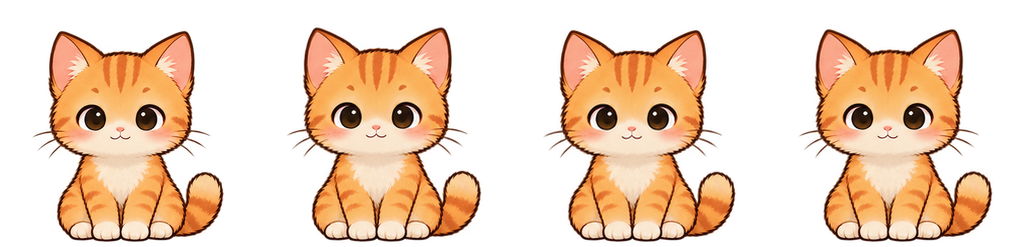
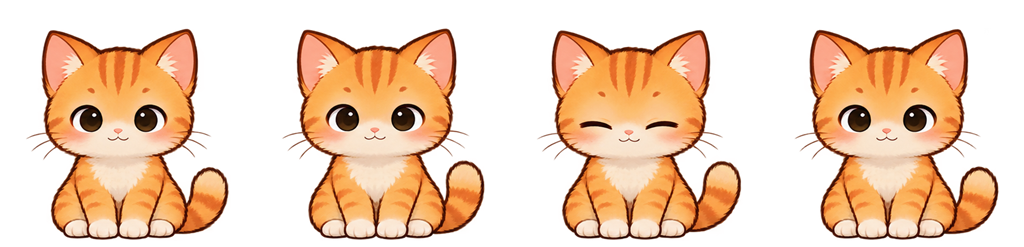
v0.8.3: redraw Amber idle and input-driven work animation

diff --git a/tests/ReliabilityProbe/AmberAnimationChecks.cs b/tests/ReliabilityProbe/AmberAnimationChecks.cs
@@ -1,0 +1,81 @@
+using System.IO;
+using System.Reflection;
+using System.Text.Json.Nodes;
+using DesktopPet.App.Core;
+using DesktopPet.App.Renderer;
+using DesktopPet.Core;
+
+internal static partial class Program
+{
+    private static void RunAmberAnimationChecks(string root)
+    {
+        Check("uneven frame timing gives a short blink, preserves seeking and catches up after suspend", () =>
+        {
+            var state = SpriteAtlas.LoadSkin(Paths.Assets, "amber").States["idle"];
+            Require(state.FrameDurations.Count == 4, "idle timing was lost in atlas loading");
+            var animator = new FrameAnimator(); animator.SetState(state);
+            animator.Tick(TimeSpan.FromSeconds(1.79)); Require(animator.FrameIndex == 0, "neutral hold ended early");
+            animator.Tick(TimeSpan.FromSeconds(1.22)); Require(animator.FrameIndex == 2, "blink frame not reached");
+            animator.Tick(TimeSpan.FromSeconds(.14)); Require(animator.FrameIndex == 3, "blink held too long");
+            animator.SeekFrame(2); animator.Tick(TimeSpan.FromSeconds(.13));
+            Require(animator.FrameIndex == 2, "seek retained old elapsed time");
+            animator.Tick(TimeSpan.FromSeconds(.02)); Require(animator.FrameIndex == 3, "seek did not resume timing");
+            animator.SeekFrame(0); animator.Playback = 2;
+            animator.Tick(TimeSpan.FromSeconds(.91)); Require(animator.FrameIndex == 1, "playback multiplier ignored");
+            animator.Playback = 1; animator.SeekFrame(0);
+            animator.Tick(TimeSpan.FromSeconds(454000003.01));
+            Require(animator.FrameIndex == 2, "suspend catch-up corrupted uneven timing");
+            animator.Loop = false; animator.SeekFrame(0);
+            animator.Tick(TimeSpan.FromSeconds(100));
+            Require(animator.IsComplete && animator.FrameIndex == 3, "one-shot uneven animation did not finish");
+            var pixel = SpriteAtlas.LoadSkin(Paths.Assets, "pixel");
+            var walk = pixel.States["walk"];
+            Field<Dictionary<string, SpriteState>>(pixel, "_states")["walk"] = new SpriteState
+            { Name = "walk", Fps = 8, Frames = walk.Frames, FrameDurations = new double[] { 1, 1, 1, 1 } };
+            Require(Math.Abs(new PetRenderer(pixel) { Scale = 4 }.WalkSpeed - 10) < .001, "stride ignored uneven cycle duration");
+        });
+        Check("work paws follow input, rest with embedded blinking and never override a drag", () =>
+        {
+            var renderer = new PetRenderer(SpriteAtlas.LoadSkin(Paths.Assets, "amber"));
+            var animator = Field<FrameAnimator>(renderer, "_animator");
+            renderer.Play(PetState.Work);
+            Require(animator.FrameIndex == 1, "work started with a raised paw without input");
+            renderer.Tick(TimeSpan.FromSeconds(1)); Require(animator.FrameIndex == 1, "resting cat kept typing");
+            var neutral = Pixels(RenderAnimationFrame(renderer));
+            renderer.SetTypingActive(TimeSpan.FromSeconds(.6));
+            renderer.Tick(TimeSpan.FromSeconds(.3)); Require(animator.FrameIndex == 3, "typing did not animate paws");
+            typeof(PetRenderer).GetField("_breathOffset", BindingFlags.Instance | BindingFlags.NonPublic)!.SetValue(renderer, 0d);
+            Require(neutral.SequenceEqual(Pixels(RenderAnimationFrame(renderer))), "fast typing repeated the embedded blink every cycle");
+            renderer.Tick(TimeSpan.FromSeconds(.4)); Require(animator.FrameIndex == 1, "paws did not return to keyboard");
+            typeof(PetRenderer).GetField("_nextBlinkAtMs", BindingFlags.Instance | BindingFlags.NonPublic)!.SetValue(renderer, 0d);
+            renderer.Tick(TimeSpan.FromMilliseconds(1)); Require(animator.FrameIndex == 3, "embedded rest blink missing");
+            renderer.Tick(TimeSpan.FromMilliseconds(150)); Require(animator.FrameIndex == 1, "rest blink stuck");
+            renderer.Play(PetState.Drag); renderer.Tick(TimeSpan.FromSeconds(.4));
+            Require(animator.State!.Name == "drag" && animator.FrameIndex != 1, "work rest logic intercepted drag");
+            renderer.SetAtlas(SpriteAtlas.LoadSkin(Paths.Assets, "pixel")); renderer.Play(PetState.Work);
+            renderer.Tick(TimeSpan.FromSeconds(.5)); Require(animator.FrameIndex == 1, "legacy work loop changed");
+        });
+        Check("invalid frame timing and input-frame declarations are rejected", () =>
+        {
+            var directory = Path.Combine(root, "timing-fixtures", "timing"); Directory.CreateDirectory(directory);
+            var source = JsonNode.Parse(File.ReadAllText(Path.Combine(Paths.Assets, "amber", "skin.json")))!.AsObject();
+            source["id"] = "timing";
+            var path = Path.Combine(directory, "skin.json");
+            void Reject(Action<JsonObject> mutate)
+            {
+                var invalid = source.DeepClone().AsObject(); mutate(invalid); File.WriteAllText(path, invalid.ToJsonString());
+                Require(SkinRegistry.Scan(Path.GetDirectoryName(directory)!).Single().IsBuiltinFallback, "invalid timing manifest accepted");
+            }
+            Reject(m => m["states"]![0]!["frameDurations"] = new JsonArray(1, 1, 0, 1));
+            Reject(m => m["states"]![0]!["frameDurations"] = new JsonArray(1, 1));
+            Reject(m => m["states"]![0]!["frameDurations"] = new JsonArray(1, 1, "fast", 1));
+            Reject(m => m["states"]![0]!["frameDurations"] = new JsonArray(1, 1, 61, 1));
+            Reject(m => m["states"]![8]!["typingRestFrame"] = 4);
+            Reject(m => m["states"]![8]!["typingRestFrame"] = .5);
+            Reject(m => m["states"]![8]!.AsObject().Remove("typingRestFrame"));
+            Reject(m => m["states"]![0]!["typingRestFrame"] = 0);
+            File.WriteAllText(path, source.ToJsonString());
+            Require(SkinRegistry.InspectFolder(directory).States[8].BlinkFrame == 3, "valid embedded blink rejected");
+        });
+    }
+}

diff --git a/src/DesktopPet.App/Renderer/PetRenderer.cs b/src/DesktopPet.App/Renderer/PetRenderer.cs
@@ -22,7 +22,8 @@ public sealed class PetRenderer
     private double _typingWeight;
     public bool IsTransitioning => _transitionTarget is not null;
     public double WalkSpeed => _atlas.Motion?.WalkStride is double stride && _atlas.States.TryGetValue("walk", out var walk)
-        ? stride * Scale * walk.Fps / Math.Max(1, walk.Frames.Length) * _moodIntensity
+        ? stride * Scale * (walk.Fps <= 0 ? 0 : walk.FrameDurations.Count == walk.Frames.Length
+            ? 1 / walk.FrameDurations.Sum() : walk.Fps / Math.Max(1, walk.Frames.Length)) * _moodIntensity
         : Behavior.PetStateMachine.WalkSpeed;
 
     // 眼球偏移（眼神追踪）
@@ -124,6 +125,8 @@ public sealed class PetRenderer
         var restart = !loop || _animator.IsComplete || _animator.Loop != loop;
         _animator.Loop = loop;
         _animator.SetState(target, restart);
+        if (loop && target?.TypingRestFrame is int rest && _clockMs >= _typingUntilMs)
+            _animator.SeekFrame(rest);
         RenderInvalidated?.Invoke();
     }
 
@@ -171,7 +174,9 @@ public sealed class PetRenderer
         // v0.1.58(任务5)：单调时钟先行累加真实 elapsed（眨眼/闪眼/打字全部锚定它）
         _clockMs += delta.TotalMilliseconds;
 
-        _animator.Playback = _moodIntensity;
+        bool typing = _clockMs < _typingUntilMs;
+        var inputDriven = _animator.Loop && _animator.State?.TypingRestFrame is not null;
+        _animator.Playback = inputDriven && !typing ? 0 : _moodIntensity;
         var changed = _animator.Tick(delta);
         if (_transitionTarget is { } destination && _animator.IsComplete)
         {
@@ -187,7 +192,6 @@ public sealed class PetRenderer
         }
 
         // v0.1.47：打字活跃检测 → 眨眼更频繁 + 身体呼吸晃动（看键盘效果在 Draw 里）
-        bool typing = _clockMs < _typingUntilMs;
         double blinkMax = typing ? 1.6 : 6.0;   // 眨眼间隔上限：打字 1.6s / 闲置 6s（间隔分布见 ScheduleNextBlink）
         var previousBreath = _breathOffset;
         var motion = _atlas.Motion;
@@ -248,6 +252,13 @@ public sealed class PetRenderer
                 break;
         }
 
+        // Embedded-eye work sheets can rest and blink without pretending to type forever.
+        if (_animator.Loop && !typing && _animator.State is { TypingRestFrame: int resting } work)
+        {
+            var frame = _blinkPhase != BlinkPhase.Open && work.BlinkFrame is int blink ? blink : resting;
+            if (_animator.FrameIndex != frame) { _animator.SeekFrame(frame); changed = true; }
+        }
+
         // 气泡计时
         if (_speechTimer > 0)
         {
@@ -287,7 +298,11 @@ public sealed class PetRenderer
         };
         if (mirror) dc.PushTransform(new MatrixTransform(-1, 0, 0, 1, SpriteAtlas.FrameW * Scale, 0));
 
-        var frame = state.Frames[_animator.FrameIndex];
+        // A dedicated embedded blink must not repeat once per fast typing cycle.
+        // Keep its time slot as a neutral paw-down beat; use the actual blink only at rest.
+        var frameIndex = _animator.Loop && _clockMs < _typingUntilMs && state.BlinkFrame == _animator.FrameIndex
+            && state.TypingRestFrame is int resting ? resting : _animator.FrameIndex;
+        var frame = state.Frames[frameIndex];
         // v0.1.47：身体 Y 偏移（打字时呼吸/晃动感）
         var target = new Rect(0, _breathOffset, SpriteAtlas.FrameW * Scale, SpriteAtlas.FrameH * Scale);
 
@@ -330,7 +345,7 @@ public sealed class PetRenderer
             {
                 // Anchor motion follows the head, while gaze remains relative to that anchor.
                 // Apply the transform to the layer, clipping and socket mask together.
-                var anchor = state.EyeOffsets.Count > _animator.FrameIndex ? state.EyeOffsets[_animator.FrameIndex] : default;
+                var anchor = state.EyeOffsets.Count > frameIndex ? state.EyeOffsets[frameIndex] : default;
                 dc.PushTransform(new TranslateTransform(anchor.X * SpriteAtlas.FrameW * Scale / eye.PixelWidth,
                     _breathOffset + anchor.Y * SpriteAtlas.FrameH * Scale / eye.PixelHeight));
                 // 眼神偏移：眼球层整体平移；v0.1.47 打字时眼球下移（看键盘）

diff --git a/src/DesktopPet.App/Core/SkinRegistry.cs b/src/DesktopPet.App/Core/SkinRegistry.cs
@@ -24,6 +24,12 @@ public sealed class SkinState
     /// <summary>该状态的播放帧率（帧/秒）。</summary>
     public required double Fps { get; init; }
 
+    /// <summary>可选逐帧停留秒数；fps=0 仍保持静止。</summary>
+    public IReadOnlyList<double> FrameDurations { get; init; } = Array.Empty<double>();
+    /// <summary>工作动作无键盘输入时停留的帧；缺省持续循环。</summary>
+    public int? TypingRestFrame { get; init; }
+    public int? BlinkFrame { get; init; }
+
     /// <summary>叠加的眼球层 key（<c>neko_&lt;eyeLayer&gt;.png</c>）；null 表示不叠加（如 sleep，或眼睛已画在身体里）。</summary>
     public string? EyeLayer { get; init; }
 
@@ -302,6 +308,30 @@ public static class SkinRegistry
                     // 引擎侧是支持静止的：FrameAnimator.Tick 里 `if (fps <= 0) return false;`（帧永不推进）。
                     // 这里只拦真正非法的值：负数 / NaN（缺字段时 GetDouble 回落成 0 → 视为静止，偏宽容但有意义）。
                     if (fps < 0 || !double.IsFinite(fps)) throw new FormatException($"状态 '{name}' 的 fps 必须为有限非负数");
+                    var durations = new List<double>();
+                    if (s.TryGetProperty("frameDurations", out var timings))
+                    {
+                        if (timings.ValueKind != JsonValueKind.Array || timings.GetArrayLength() != frames)
+                            throw new FormatException($"状态 '{name}' 的 frameDurations 必须与 frames 数量一致");
+                        foreach (var timing in timings.EnumerateArray())
+                        {
+                            if (timing.ValueKind != JsonValueKind.Number || !timing.TryGetDouble(out var seconds) ||
+                                !double.IsFinite(seconds) || seconds < .02 || seconds > 60)
+                                throw new FormatException("frameDurations 每项必须为 0.02–60 秒");
+                            durations.Add(seconds);
+                        }
+                    }
+                    int? ReadFrame(string key)
+                    {
+                        if (!s.TryGetProperty(key, out var value)) return null;
+                        if (value.ValueKind != JsonValueKind.Number || !value.TryGetInt32(out var index) || index < 0 || index >= frames)
+                            throw new FormatException($"状态 '{name}' 的 {key} 必须是有效的零起始帧号");
+                        return index;
+                    }
+                    var restFrame = ReadFrame("typingRestFrame");
+                    var blinkFrame = ReadFrame("blinkFrame");
+                    if ((restFrame.HasValue && (name != "work" || fps <= 0)) || (blinkFrame.HasValue && !restFrame.HasValue))
+                        throw new FormatException("typingRestFrame 仅用于正帧率 work 动作；blinkFrame 需要 typingRestFrame");
                     var eye = GetString(s, "eyeLayer");
                     if (!string.IsNullOrWhiteSpace(eye) && !IsAssetName(eye)) throw new FormatException($"非法眼层引用 '{eye}'");
                     var eyeOffsets = new List<SkinEyeOffset>();
@@ -326,7 +356,8 @@ public static class SkinRegistry
                         "right" => SkinFacing.Right,
                         var invalid => throw new FormatException($"状态 '{name}' 的 facing '{invalid}' 无效，应为 left/right/none"),
                     };
-                    states.Add(new SkinState { Name = name!, Fps = fps, EyeLayer = string.IsNullOrWhiteSpace(eye) ? null : eye, EyeOffsets = eyeOffsets, Facing = facing });
+                    states.Add(new SkinState { Name = name!, Fps = fps, FrameDurations = durations, TypingRestFrame = restFrame, BlinkFrame = blinkFrame,
+                        EyeLayer = string.IsNullOrWhiteSpace(eye) ? null : eye, EyeOffsets = eyeOffsets, Facing = facing });
                 }
             }
             if (states.Count == 0) return null;   // 没有可用状态的皮肤不可用

diff --git a/tests/ReliabilityProbe/CharacterChecks.cs b/tests/ReliabilityProbe/CharacterChecks.cs
@@ -149,23 +149,33 @@ internal static partial class Program
     private static void CaptureCharacterPreview(string output)
     {
         Directory.CreateDirectory(output);
-        foreach (var skin in new[] { "pixel", "pixel_redraw" })
+        foreach (var skin in new[] { "pixel", "pixel_redraw", "amber" })
         {
             var renderer = new PetRenderer(SpriteAtlas.LoadSkin(Paths.Assets, skin)) { Scale = 6 };
             var encoder = new System.Windows.Media.Imaging.GifBitmapEncoder();
-            renderer.Play(PetState.Sit); renderer.Play(PetState.Sleep);
+            if (skin == "amber") renderer.Play(PetState.Idle);
+            else { renderer.Play(PetState.Sit); renderer.Play(PetState.Sleep); }
             for (int i = 0; i < 80; i++)
             {
-                if (i == 10) renderer.Play(PetState.Work);
-                if (i >= 25 && i < 45) renderer.SetTypingActive(TimeSpan.FromSeconds(.3));
-                if (i == 50) renderer.Play(PetState.Pet);
-                if (i == 57) renderer.Play(PetState.Work);
+                if (skin == "amber")
+                {
+                    if (i == 45) renderer.Play(PetState.Work);
+                    if (i >= 55 && i < 70) renderer.SetTypingActive(TimeSpan.FromSeconds(.3));
+                }
+                else
+                {
+                    if (i == 10) renderer.Play(PetState.Work);
+                    if (i >= 25 && i < 45) renderer.SetTypingActive(TimeSpan.FromSeconds(.3));
+                    if (i == 50) renderer.Play(PetState.Pet);
+                    if (i == 57) renderer.Play(PetState.Work);
+                }
                 var visual = new System.Windows.Media.DrawingVisual();
-                System.Windows.Media.RenderOptions.SetBitmapScalingMode(visual, System.Windows.Media.BitmapScalingMode.NearestNeighbor);
+                System.Windows.Media.RenderOptions.SetBitmapScalingMode(visual, skin == "amber" ? System.Windows.Media.BitmapScalingMode.HighQuality : System.Windows.Media.BitmapScalingMode.NearestNeighbor);
                 using (var dc = visual.RenderOpen())
                 {
                     dc.DrawRectangle(new System.Windows.Media.SolidColorBrush(System.Windows.Media.Color.FromRgb(35, 32, 29)), null, new Rect(0, 0, 280, 256));
                     var label = i < 10 ? (renderer.IsTransitioning ? "Settle > Sleep" : "Sleep") : i < 25 ? "Wake > Work" : i < 50 ? "Typing > Settle" : i < 57 ? "Pet" : "Back to Work";
+                    if (skin == "amber") label = i < 45 ? "Idle > Blink" : i < 55 ? "Work > Rest" : i < 70 ? "Typing" : "Back to Rest";
                     dc.DrawText(new System.Windows.Media.FormattedText(label, System.Globalization.CultureInfo.InvariantCulture,
                         FlowDirection.LeftToRight, new System.Windows.Media.Typeface("Segoe UI"), 16, System.Windows.Media.Brushes.Wheat, 1), new Point(16, 12));
                     dc.PushTransform(new System.Windows.Media.TranslateTransform(44, 48)); renderer.Draw(dc); dc.Pop();

diff --git a/src/DesktopPet.App/Renderer/FrameAnimator.cs b/src/DesktopPet.App/Renderer/FrameAnimator.cs
@@ -49,6 +49,27 @@ public sealed class FrameAnimator
         var fps = _state.Fps * Playback;
         if (!double.IsFinite(fps) || fps <= 0 || delta <= TimeSpan.Zero) return false;
 
+        if (_state.FrameDurations.Count == _state.Frames.Length)
+        {
+            // Keep elapsed time in seconds for uneven holds. Reduce whole cycles before
+            // walking frames so a long suspend never creates an unbounded catch-up loop.
+            _accumulator += delta.TotalSeconds * Playback;
+            if (!double.IsFinite(_accumulator)) { _accumulator = 0; return false; }
+            var previous = _frame;
+            if (Loop) _accumulator %= _state.FrameDurations.Sum();
+            for (var steps = 0; steps < _state.Frames.Length && _accumulator >= _state.FrameDurations[_frame]; steps++)
+            {
+                _accumulator -= _state.FrameDurations[_frame];
+                if (_frame == _state.Frames.Length - 1)
+                {
+                    if (!Loop) { IsComplete = true; _accumulator = 0; break; }
+                    _frame = 0;
+                }
+                else _frame++;
+            }
+            return previous != _frame || IsComplete;
+        }
+
         _accumulator += delta.TotalSeconds * fps;
         // Reduce in floating point before converting: resume after sleep must not overflow int
         // or leave a backlog that keeps spinning through complete cycles on every subsequent tick.

diff --git a/src/DesktopPet.App/Renderer/SpriteAtlas.cs b/src/DesktopPet.App/Renderer/SpriteAtlas.cs
@@ -31,6 +31,9 @@ public sealed class SpriteState
     public required string Name { get; init; }
     public required SpriteFrame[] Frames { get; init; }
     public required double Fps { get; init; }
+    public IReadOnlyList<double> FrameDurations { get; init; } = Array.Empty<double>();
+    public int? TypingRestFrame { get; init; }
+    public int? BlinkFrame { get; init; }
     /// <summary>此状态叠加的眼球层 key（null 表示不叠加，如 sleep 或柔光版——眼睛已画在身体里）</summary>
     public string? EyeLayer { get; init; }
     public IReadOnlyList<SkinEyeOffset> EyeOffsets { get; init; } = Array.Empty<SkinEyeOffset>();
@@ -198,6 +201,7 @@ public sealed class SpriteAtlas
                 {
                     Name = state.Name,
                     Frames = frames,
+                    FrameDurations = state.FrameDurations, TypingRestFrame = state.TypingRestFrame, BlinkFrame = state.BlinkFrame,
                     Fps = state.Fps,
                     EyeLayer = state.EyeLayer,
                     EyeOffsets = state.EyeOffsets,

diff --git a/src/DesktopPet.App/Windows/SkinWorkbenchWindow.cs b/src/DesktopPet.App/Windows/SkinWorkbenchWindow.cs
@@ -176,7 +176,9 @@ public sealed class SkinWorkbenchWindow : Window
     {
         var state = _surface.State; var index = _surface.FrameIndex;
         var offset = _surface.CurrentEyeOffset;
-        _frame.Text = $"{state.Name} · 帧 {index + 1}/{state.Frames.Length} · {state.Fps:0.##} fps · 眼层 {state.EyeLayer ?? "无"} · 锚点 ({offset.X:0.##}, {offset.Y:0.##}) 源像素";
+        var timing = state.FrameDurations.Count == state.Frames.Length ? $"本帧停留 {state.FrameDurations[index]:0.##} 秒" : $"{state.Fps:0.##} fps";
+        _frame.Text = $"{state.Name} · 帧 {index + 1}/{state.Frames.Length} · {timing} · 眼层 {state.EyeLayer ?? "无"} · 锚点 ({offset.X:0.##}, {offset.Y:0.##}) 源像素"
+            + (state.TypingRestFrame is int rest ? $"\n主程序跟随键盘输入；无输入停留第 {rest + 1} 帧。这里循环检查全部原画帧。" : "");
         _play.Content = _surface.Playing ? "暂停" : "播放";
         var inspecting = _gazePreview.IsChecked == true;
         _surface.GazePreviewEnabled = inspecting;

diff --git a/tests/ReliabilityProbe/Program.cs b/tests/ReliabilityProbe/Program.cs
@@ -31,6 +31,7 @@ internal static partial class Program
         RunReleaseReadyChecks(root);
         RunResidencyChecks(root);
         RunCharacterChecks(root);
+        RunAmberAnimationChecks(root);
         RunFocusChecks();
         RunSkinWorkbenchChecks(root);
         RunAnchorChecks(root);

diff --git a/docs/skin-motion.md b/docs/skin-motion.md
@@ -26,7 +26,7 @@
 
 - walkStride：每完整 walk 动画周期前进的距离，以 32×32 逻辑画幅为基准，范围 0–64。实际速度 = 步幅 × 显示倍率 × walk.fps ÷ walk 帧数 × 情绪播放倍率。0 表示不移动；缺省使用旧速度。请依据真实落脚动作测量，不要通过改速度掩盖缺失的步态。
 - gazeMaxX / gazeMaxY：逻辑像素；最大为 0.65 / 0.35，0 可关闭对应方向位移。仍会进一步受素材眼眶安全范围和椭圆限幅约束。已有画死的眼睛不会自动获得眼球跟随。
-- 四个眨眼间隔：秒，范围 0.5–60，最小值不得大于最大值。须有可用的眼睛图层，参数不会凭空生成眨眼素材。
+- 四个眨眼间隔：秒，范围 0.5–60，最小值不得大于最大值。须有可用的眼睛图层，或 v0.8.3 的工作休息 blinkFrame，参数不会凭空生成眨眼素材。
 - typingBob：0–0.5 逻辑像素，随显示倍率缩放；0 关闭。周期为 0.5–10 秒。只作用于 idle/work，约 180ms 平滑进入与收尾，直接交互立即停止。身体与眼层一起移动，建议在画幅边缘保留余量。
 
 motion 中已知字段缺省使用保守默认值；显式非法类型、非有限值、越界值或反向间隔会拒绝该皮肤，并记录诊断。
@@ -43,4 +43,19 @@ v0.6.1 的原始 pixel 皮肤已有五组专用四帧动作：sleep_enter（8fps
 
 抚摸结束由宿主主循环计时，重复抚摸会重置最新反馈时长；暂停、隐藏和锁屏时不消耗反馈时长。新的动作请求会取消旧反应，工作模式结束后恢复 work。自动走动仍需用户主动启用。
 
-验证预览：ReliabilityProbe 设置环境变量 NEKO_CAPTURE_CHARACTER 后，会从真实渲染器导出 pixel 与 pixel_redraw 的动作 GIF，保存在指定目录。预览用于检查姿态和衔接，不能代替默认大小和多 DPI 的实机观感检查。
+验证预览：ReliabilityProbe 设置环境变量 NEKO_CAPTURE_CHARACTER 后，会从真实渲染器导出 pixel、pixel_redraw 与 amber 的动作 GIF，保存在指定目录。预览用于检查姿态和衔接，不能代替默认大小和多 DPI 的实机观感检查。
+
+## 逐帧停留与输入工作帧（v0.8.3）
+
+以下可选字段放在 states 的单个动作对象中，旧皮肤无需修改：
+
+```json
+{ "name": "idle", "fps": 4, "frameDurations": [1.8, 1.2, 0.14, 1.4], "eyeLayer": null }
+{ "name": "work", "fps": 7, "typingRestFrame": 1, "blinkFrame": 3, "eyeLayer": null }
+```
+
+- frameDurations：每帧停留秒数，数量必须等于 frames，每项为 0.02–60 的有限数字。fps>0 时优先使用该时间表，情绪倍率和工作台播放倍率仍生效；fps=0 保持静止。整周期时长为各项之和，walkStride 也按该时长计算速度。单次播放在最后一帧停留结束后完成，恢复长时间挂起不会逐周期补播。
+- typingRestFrame：零起始帧号，仅允许正帧率 work。主程序有输入活动时循环动作，输入活动结束回到此帧；未声明时仍按旧方式持续循环。输入活动沿用「键盘互动」开关与宿主键鼠事件的约一秒保持窗口，不新增内容记录。
+- blinkFrame：可选零起始帧号，需要 typingRestFrame。无输入时在宿主短暂眨眼窗口替换休息帧，随后恢复。适合眼睛已经画在身体里的皮肤；请提供真正闭眼或半闭眼素材。输入循环走到此帧时改绘休息帧、保持原时间槽，避免每次敲击周期都快速眨眼；单次播放和工作台仍显示原帧。
+
+工作台按真实逐帧停留时间检查全部原画帧，不等待键盘输入；界面会提示主程序的休息帧规则。逐帧操作仍可检查短促闭眼帧。非法数量、类型、时间或帧号会拒绝皮肤，不静默修正。

diff --git a/docs/amber-animation.md b/docs/amber-animation.md
@@ -1,0 +1,17 @@
+# 琥珀待机与工作动画（v0.8.3）
+
+2026-10-29。使用内置 imagegen 工具，以原来的 amber/neko_idle.png 和 amber/neko_work.png 为编辑参考，保留橘色、额纹、奶油白口鼻和胸口、大眼睛与手绘风格。输出透明四列两行的原画图集。PNG 的透明度来自生图输出，没有按颜色抠背景。
+
+程序使用的素材为 `neko-assets/amber/neko_idle.png`、`neko_work.png` 和 `thumb.png`。待机四帧包含睁眼、轻微胸口和尾巴变化、闭眼、恢复；工作四帧为一侧抬爪、双爪落下、另一侧抬爪、半闭眼双爪落下。工作休息帧为零起始 1，休息眨眼帧为 3。
+
[1 lines of base64/hex data omitted]
+
+```powershell
+./tools/pack_amber_animation.ps1 -Source neko-assets/_airaw/amber-idle-work-v2.png
+```
+
+最终生图提示词（内置工具，附带原待机和工作图作为参考，transparent_background=true）：
+
+> Use case: identity-preserve. Production animation sprite sheet for existing desktop companion. Input 1 is the exact idle orange kitten identity and seated pose. Input 2 is the exact same kitten working at its brown keyboard. Preserve the existing hand-drawn cute style, huge dark brown eyes, forehead stripes, cream muzzle and chest, face proportions, orange palette and compact silhouette. Output ONE transparent PNG sheet, exactly FOUR equal columns and TWO equal rows (8 equal square cells), no labels, no grid lines. Each cat fits fully inside its own cell with consistent scale and 8% transparent padding. Keep face and body registration extremely consistent across frames; no camera or lighting changes. TOP ROW four idle animation frames in order: 1 neutral seated open eyes, 2 slight inhaling chest and tail tip curving toward left, 3 BOTH EYES FULLY CLOSED in a natural blink with relaxed upper face, chest settling and tail tip curving toward right, 4 neutral open eyes relaxed seated, tail returning. Keep grounded paws in exactly same place. BOTTOM ROW four working animation frames in order: 1 LEFT FRONT PAW clearly raised above the keyboard while right paw presses keys, 2 both front paws down on keyboard, 3 RIGHT FRONT PAW clearly raised while left paw presses keys, 4 both paws down and a gentle half blink. Keep the KEYBOARD precisely in the same position, same shape in all four bottom cells; same face and body as input2; paw lift must be visibly articulated at shoulder/elbow, not whole cat translated. Tail slight swing. No extra limbs, no text, no background, no shadows outside character, genuinely transparent alpha. This is a usable animation atlas, not a presentation mockup.
+
+验收边界：工作台与真实渲染器均须检查。自动回归覆盖停留、输入启停、休息眨眼、打断和旧皮肤兼容；默认大小及长时间试用观感仍需继续收集反馈。本轮没有独立瞳孔层，不宣称新增眼神跟随，也没有更新步态或其他七个动作。

diff --git a/docs/roadmap.md b/docs/roadmap.md
@@ -1,6 +1,6 @@
 # Neko 长期路线
 
-更新于 2026-10-28。定位：原创像素橘猫、低打扰工作陪伴、可定制外观和开放扩展。按阶段完成标准推进，不承诺固定日期。
+更新于 2026-10-29。定位：原创像素橘猫、低打扰工作陪伴、可定制外观和开放扩展。按阶段完成标准推进，不承诺固定日期。
 
 | 阶段 | 工作 | 完成标准 |
 | --- | --- | --- |
@@ -31,3 +31,7 @@
 创作者工具第二批（v0.8.1）：眼层锚点逐帧拖动与数值编辑、撤销/重做、保存前备份和外部修改冲突保护已完成。后续继续眼神安全区域检查与运行时过渡串联预览。
 
 创作者工具第三批（v0.8.2）：九方向视线与运行时遮罩检查已接入，包含限幅数值、缺遮罩提示和源画幅越界提示；通过有/无遮罩的九方向逐像素合成对比。后续继续运行时过渡串联预览；眼眶遮罩编辑尚未实现。
+
+根据试用反馈，近期优先回到角色精品化：先完成琥珀的待机与工作，再补真正交替迈腿的步态、睡醒和抚摸收势，之后完善原始像素猫并逐套扩展。每批检查默认大小的动作辨识、角色一致性和实际运行节奏，不能仅按状态数或帧数验收。再继续工作台过渡串联与遮罩编辑、日常界面、扩展接入及稳定分发。
+
+角色精品化第三批（v0.8.3）：琥珀待机与工作四帧重新绘制；待机采用短眨眼和长停留，工作跟随键鼠输入，停止输入回到休息帧并保留眨眼。新增可复用逐帧停留和工作休息/眨眼帧声明。[素材记录](amber-animation.md)。本批不宣称完整步态、全部互动或其他皮肤已升级。

diff --git a/docs/skin-workbench.md b/docs/skin-workbench.md
@@ -1,4 +1,4 @@
-# 皮肤工作台（v0.8.2）
+# 皮肤工作台（v0.8.3）
 
 打开「设置 → 外观 → 皮肤工作台」检查当前皮肤，也可选择其他包含 skin.json 的目录。导入皮肤时，预览窗口中的「检查全部动作」会打开同一工作台。无需先安装或替换当前皮肤。
 
@@ -6,6 +6,7 @@
 
 - 动作列表包含九种基础动作和清单中的附加动作，过渡帧也可单独选择。
 - 播放/暂停、上一帧/下一帧，以及 0.5×/1×/2× 速度均只影响预览。逐帧会暂停；继续播放从所选帧开始。fps=0 的动作保持静止，但仍可逐帧检查。
+- 声明 frameDurations 的动作按逐帧停留时间播放，并显示当前帧秒数。声明 typingRestFrame 的工作动作在这里循环检查全部帧，主程序才会跟随输入启停，界面会给出说明。详见[动作参数](skin-motion.md)。
 - 棋盘表示透明背景；红框标出源画幅，蓝框是当前眼层非透明像素的联合包围盒，蓝色十字表示眼层原点。锚点坐标来自该动作当前帧的 eyeOffsets，单位为源像素。
 - 这里展示原始身体帧与声明眼层，不叠加随机眨眼、呼吸、影子或自动过渡；可在检查面板单独模拟视线。因此包围盒不是眼眶遮罩，也不代表眼球最大安全位移。运行时表现仍需装入程序检查。
 - 外部修改完成后点击「重新校验」。失败会显示原因并保留上一份可用预览；暂停、静态动作、最小化和关闭窗口时停止预览计时器。
